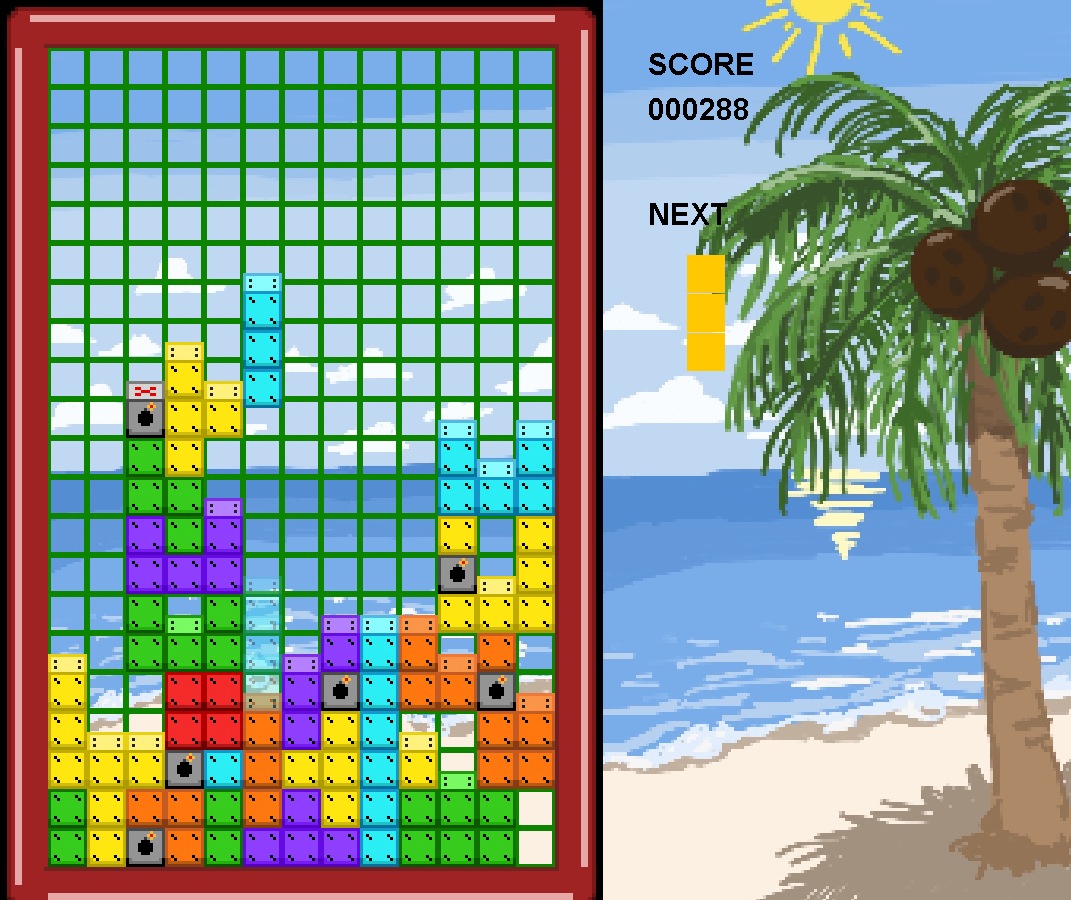
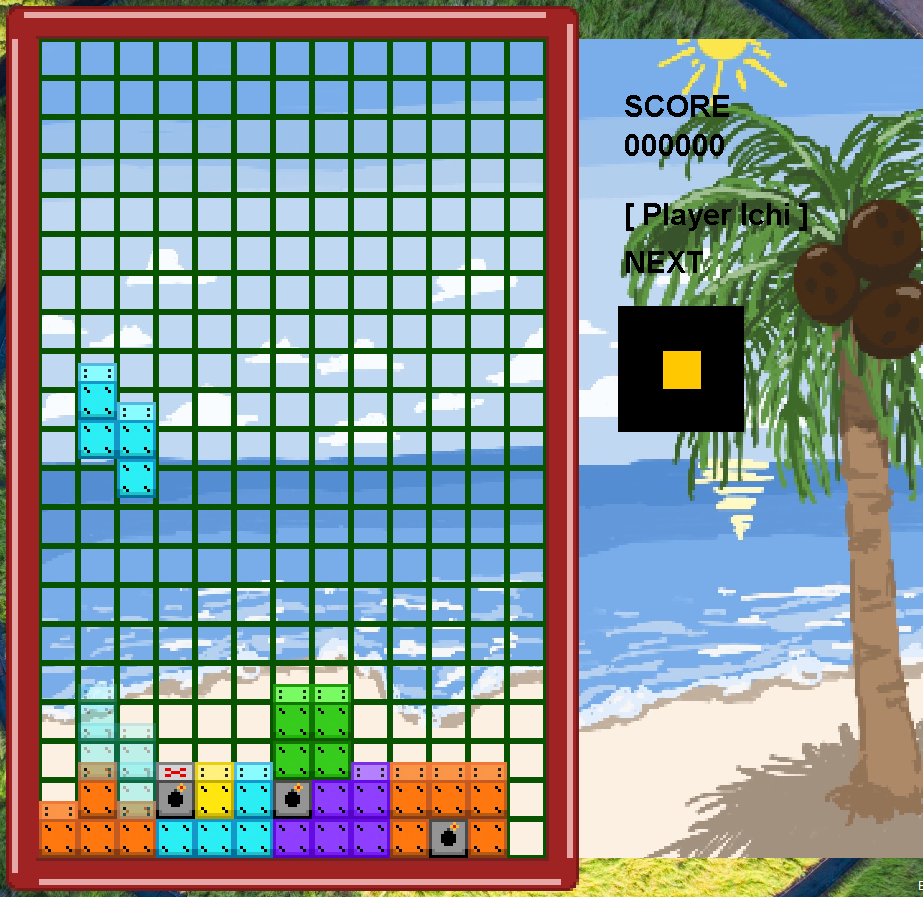
Update README links and player dialog title
Convert plain attribution lines in README to explicit links, refresh the two README screenshots, and update the player selection dialog title to include the Beta4.1 label. Files changed: README.md (added URLs for Sonic Mania, Bad Apple and the meme), resources/forreadmefile/gameover.png and intense_gameplay.png (replaced images), and scr/PlayerManager.java (changed JOptionPane title to "Player List (Beta4.1)"). No functional behavior was altered aside from the displayed dialog title and documentation assets.

diff --git a/scr/PlayerManager.java b/scr/PlayerManager.java
@@ -25,7 +25,7 @@ public class PlayerManager {
         }
         options[players.size()] = "Add Player";
 
-        int selection = JOptionPane.showOptionDialog(null, "Select your profile:", "Player List",
+        int selection = JOptionPane.showOptionDialog(null, "Select your profile:", "Player List (Beta4.1)",
                 JOptionPane.DEFAULT_OPTION, JOptionPane.QUESTION_MESSAGE, null, options, options[0]);
 
         if (selection == -1) System.exit(0);

diff --git a/README.md b/README.md
@@ -35,9 +35,9 @@ It's a Tetris game, but with a new mechanic to be less generic.
 - **Enter**, used to select an option
 
 ### Stuff used:
-- **Sonic Mania** sound effects
-- **Bad Apple!! (Sekai Mix)** the song
-- **A meme**
+- [**Sonic Mania**](https://www.youtube.com/watch?v=BUhuOwwD4n8) sound effects
+- [**Bad Apple!! (PJSK)**](https://www.youtube.com/watch?v=v-fc1zv31zE) the song
+- [**A meme**](https://x.com/cooldisks101/status/1497054170922115073?s=20)
 - Texture assets are **original**
 
 ![alt text](resources/forreadmefile/gameover.png)